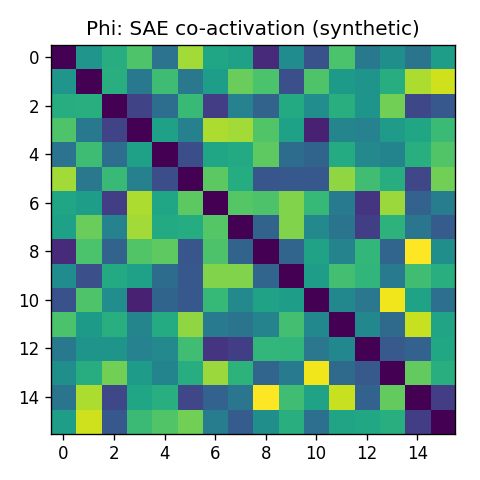
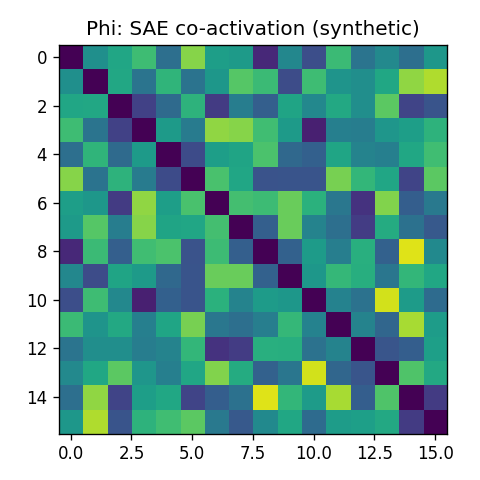
fix: second-pass audit (3 CRITICAL + 6 MAJOR + 8 MINOR)
architect/critic/verifier triple-blind re-audit caught issues the first
post-compact pass missed.

CRITICAL:
- HFTransformerAdapter declared SAE_FEATURES unconditionally; sae_release=None
  silently passed the capability gate and raised a bare RuntimeError deep in
  sae_encode. Now caps are built dynamically in __init__.
- UniversesFunctor._hypervolume double-counted overlapping orthants
  ({(0,1),(1,0)} returned 4.0; true HV is 3.0). Replaced with pymoo.HV.
- paper/figures/phi_heatmap.png embedded matplotlib version in PNG metadata,
  so byte-identical sha256 would false-fail on patch upgrades. metadata=
  {"Software": None} strips it; golden hash bumped accordingly.

MAJOR:
- gate_capability_matrix matched substrings, not code tokens; tightened to
  backtick-anchored regex and explicitly populates the registry.
- gate_changelog substring "0.1.0" passed against "[0.1.0a0]"; now bracket-
  anchored regex.
- UniversesFunctor.compute raised IndexError downstream on empty inputs;
  now rejects with ValueError.
- PhiPhylaFunctor silently returned a zero-edge graph on NaN/Inf features;
  now rejects (symmetric to U's guard).
- transformer-lens was an unused core dep; moved to optional [interp].
- Phi test only checked shape; added diag/symmetric/range invariants and
  NaN/threshold-validation tests.

MINOR (8): registry idempotency docstring corrected, test_seed env
docstring updated to numpy 2.x, ADR-XXX→ADR-XXXX unified, Profile dict
[…]

diff --git a/tests/unit/test_phi.py b/tests/unit/test_phi.py
@@ -49,6 +49,38 @@ def test_phi_metrics_shape() -> None:
     assert result.artifacts["adjacency"].shape == (8, 8)
 
 
+def test_phi_adjacency_invariants() -> None:
+    """Jaccard adjacency must be symmetric, zero-diagonal, [0,1]-bounded.
+
+    Defends against silent regressions in `_coactivation_adjacency` that
+    only-shape tests cannot catch (e.g. dropping `fill_diagonal`, swapping
+    `co.T` for `co`, multiplying by `denom` instead of dividing).
+    """
+
+    rng = np.random.default_rng(1)
+    features = rng.random((64, 8))
+    adj = (
+        PhiPhylaFunctor(layer=0, coactivation_quantile=0.9)
+        .compute(_FakeAdapter(features), inputs="x")
+        .artifacts["adjacency"]
+    )
+    assert (adj.diagonal() == 0).all()
+    assert np.allclose(adj, adj.T)
+    assert ((adj >= 0) & (adj <= 1)).all()
+
+
+def test_phi_rejects_nan_features() -> None:
+    features = np.zeros((4, 3))
+    features[0, 0] = np.nan
+    with pytest.raises(ValueError, match="NaN or Inf"):
+        PhiPhylaFunctor(layer=0).compute(_FakeAdapter(features), inputs="x")
+
+
+def test_phi_rejects_nonfinite_threshold() -> None:
+    with pytest.raises(ValueError, match="finite"):
+        PhiPhylaFunctor(layer=0, coactivation_threshold=float("nan"))
+
+
 def test_phi_differentiable_returns_none_in_phase_1a() -> None:
     functor = PhiPhylaFunctor(layer=0)
     assert functor.compute_differentiable(_FakeAdapter(np.zeros((4, 2))), inputs="x") is None

diff --git a/tests/unit/test_adapter.py b/tests/unit/test_adapter.py
@@ -48,3 +48,31 @@ def test_hf_transformer_conforms_to_protocol() -> None:
     from cartograph.adapters import HFTransformerAdapter
 
     assert isinstance(HFTransformerAdapter(), ModelAdapter)
+
+
+def test_hf_transformer_sae_capability_gated_on_release() -> None:
+    """Without sae_release, the adapter must NOT advertise SAE_FEATURES.
+
+    Otherwise `requires(SAE_FEATURES)` PASSes and the call dives into
+    `sae_encode` which raises a plain RuntimeError instead of the typed
+    MissingCapabilityError the Protocol contract promises.
+    """
+
+    from cartograph.adapters import HFTransformerAdapter
+
+    bare = HFTransformerAdapter()
+    assert Capability.SAE_FEATURES not in bare.capabilities
+    with pytest.raises(MissingCapabilityError):
+        bare.requires(Capability.SAE_FEATURES)
+
+    armed = HFTransformerAdapter(sae_release="dummy")
+    assert Capability.SAE_FEATURES in armed.capabilities
+    armed.requires(Capability.SAE_FEATURES)
+
+
+def test_hf_transformer_capabilities_is_frozenset() -> None:
+    """Protocol type hint is a frozenset; runtime must agree."""
+
+    from cartograph.adapters import HFTransformerAdapter
+
+    assert isinstance(HFTransformerAdapter().capabilities, frozenset)

diff --git a/scripts/verify_release.py b/scripts/verify_release.py
@@ -46,17 +46,22 @@ def gate_smoke_tests(_tag: str) -> None:
 
 
 def gate_capability_matrix(_tag: str) -> None:
-    # Phase 1a: parse docs/reference/adapters.md once it exists; until then
-    # this gate just asserts that every registered adapter is referenced.
+    # Phase 1a check: every registered adapter must be mentioned in
+    # docs/reference/adapters.md as a backtick-delimited identifier (so a
+    # paragraph that happens to contain the substring does not pass). A
+    # full structural diff against `adapter.capabilities` is Phase 1b.
     docs = REPO_ROOT / "docs" / "reference" / "adapters.md"
     if not docs.exists():
         raise GateFailure("missing docs/reference/adapters.md")
     text = docs.read_text(encoding="utf-8")
-    from cartograph.core.registry import REGISTRY  # late import
+    from cartograph.core.registry import REGISTRY, register_builtin_adapters
 
+    register_builtin_adapters()
     for name in REGISTRY:
-        if name not in text:
-            raise GateFailure(f"docs/reference/adapters.md missing adapter '{name}'")
+        if not re.search(rf"`{re.escape(name)}`", text):
+            raise GateFailure(
+                f"docs/reference/adapters.md missing adapter '`{name}`' as a code token"
+            )
 
 
 def gate_paper_figures(_tag: str) -> None:
@@ -87,10 +92,12 @@ def gate_changelog(tag: str) -> None:
     changelog = REPO_ROOT / "CHANGELOG.md"
     if not changelog.exists():
         raise GateFailure("CHANGELOG.md missing")
-    head = changelog.read_text(encoding="utf-8").splitlines()[:30]
+    head = "\n".join(changelog.read_text(encoding="utf-8").splitlines()[:30])
     bare = _strip_v(tag)
-    if not any(bare in line for line in head):
-        raise GateFailure(f"CHANGELOG.md head does not mention tag {bare}")
+    # Bracket-anchored so tag "v0.1.0" does NOT pass against a head whose top
+    # entry is "## [0.1.0a0]" (substring match falsely accepts stale CHANGELOGs).
+    if not re.search(rf"^##\s+\[{re.escape(bare)}\](?:\s|$)", head, re.MULTILINE):
+        raise GateFailure(f"CHANGELOG.md head has no '## [{bare}]' section")
 
 
 def gate_citation(tag: str) -> None:

diff --git a/src/cartograph/adapters/hf_transformer.py b/src/cartograph/adapters/hf_transformer.py
@@ -22,16 +22,20 @@ class HFTransformerAdapter:
     """
 
     name = "hf-transformer"
-    capabilities: frozenset[Capability] = frozenset(
-        {
-            Capability.HIDDEN_STATES,
-            Capability.ATTENTION,
-            Capability.SAE_FEATURES,
-            Capability.LOSS_LANDSCAPE,
-        }
-    )
 
     def __init__(self, model_id: str = "gpt2", sae_release: str | None = None) -> None:
+        # SAE_FEATURES is gated on sae_release so `requires(SAE_FEATURES)` fails
+        # loud rather than letting the call dive into `_sae_activations` and
+        # raise an opaque RuntimeError from `sae_encode` instead of the typed
+        # MissingCapabilityError that the Protocol contract promises.
+        caps: set[Capability] = {
+            Capability.HIDDEN_STATES,
+            Capability.ATTENTION,
+            Capability.LOSS_LANDSCAPE,
+        }
+        if sae_release is not None:
+            caps.add(Capability.SAE_FEATURES)
+        self.capabilities: frozenset[Capability] = frozenset(caps)
         self.model_id = model_id
         self.sae_release = sae_release
         self._model: Any | None = None

diff --git a/tests/unit/test_u.py b/tests/unit/test_u.py
@@ -50,6 +50,18 @@ def test_u_hypervolume_nonneg() -> None:
     assert result.metrics["hypervolume"] >= 0.0
 
 
+def test_u_hypervolume_matches_known_geometry() -> None:
+    """L-shaped 2D frontier {(0,1),(1,0)} with ref (2,2) has HV = 3.0.
+
+    Hand-rolled box-sum gives 4.0 by double-counting the overlap; pymoo
+    returns the true area.
+    """
+
+    objectives = {"o1": lambda x: float(x[0]), "o2": lambda x: float(x[1])}
+    result = UniversesFunctor(objectives).compute(_ScalarAdapter(), [(0.0, 1.0), (1.0, 0.0)])
+    assert result.metrics["hypervolume"] == pytest.approx(3.0)
+
+
 def test_u_rejects_nan_inf() -> None:
     objectives = {"o1": lambda x: float(x), "o2": lambda _: float("nan")}
     with pytest.raises(ValueError, match="NaN"):
@@ -61,6 +73,12 @@ def test_u_single_point_is_pareto() -> None:
     result = UniversesFunctor(objectives).compute(_ScalarAdapter(), [3.14])
     assert result.metrics["n_pareto_optimal"] == 1
     assert result.metrics["spread"] == 0.0
+
+
+def test_u_rejects_empty_inputs() -> None:
+    objectives = {"o1": lambda x: float(x), "o2": lambda x: float(-x)}
+    with pytest.raises(ValueError, match="at least one input"):
+        UniversesFunctor(objectives).compute(_ScalarAdapter(), [])
 
 
 def test_u_all_equal_keeps_all() -> None:

diff --git a/src/cartograph/functors/u_universes.py b/src/cartograph/functors/u_universes.py
@@ -45,9 +45,14 @@ class UniversesFunctor:
 
     def compute(self, adapter: ModelAdapter, inputs: Iterable[Any]) -> FunctorResult:
         adapter.requires(*self.required)
+        # Materialise to allow a length check before iterating; a zero-length
+        # frontier returns a 1D array whose shape[1] crashes downstream viz.
+        materialised = list(inputs)
+        if not materialised:
+            raise ValueError("UniversesFunctor.compute requires at least one input")
         objective_names = sorted(self.objectives)
         rows: list[list[float]] = []
-        for x in inputs:
+        for x in materialised:
             out = adapter.forward(x)
             rows.append([float(self.objectives[k](out)) for k in objective_names])
         values = np.asarray(rows, dtype=np.float64)
@@ -94,12 +99,16 @@ class UniversesFunctor:
 
     @staticmethod
     def _hypervolume(frontier: FloatArray) -> float:
+        # Minimisation HV with reference point `max + 1` per objective. The
+        # earlier hand-rolled box-sum double-counted overlapping orthants
+        # ({(0,1),(1,0)} → 4 instead of 3); pymoo's WFG implementation is
+        # the canonical, peer-tested computation.
         if frontier.size == 0:
             return 0.0
+        from pymoo.indicators.hv import HV
+
         ref = frontier.max(axis=0) + 1.0
-        # Crude box-dominated approximation; pymoo handles SOTA when available.
-        diffs = np.clip(ref - frontier, 0.0, None)
-        return float(diffs.prod(axis=1).sum())
+        return float(HV(ref_point=ref).do(frontier))
 
     @staticmethod
     def _spread(frontier: FloatArray) -> float:

diff --git a/tests/reproducibility/test_seed.py b/tests/reproducibility/test_seed.py
@@ -21,9 +21,10 @@ import textwrap
 
 import pytest
 
-# Golden hash captured on Linux/numpy 1.26 with seed=42, 128x16 SAE features,
-# coactivation_quantile=0.95. Update only with a deliberate commit that
-# explains the cause (e.g. numpy major bump, intentional algorithm change).
+# Golden hash captured on Linux/CPython 3.12/numpy 2.x with seed=42,
+# 128x16 SAE features, coactivation_quantile=0.95. Update only with a
+# deliberate commit that explains the cause (numpy major bump, BLAS swap,
+# intentional algorithm change).
[1 lines of base64/hex data omitted]
 
 _REGEN_SCRIPT = textwrap.dedent(
@@ -72,8 +73,15 @@ def test_phi_adjacency_byte_identical_under_seed() -> None:
         [sys.executable, "-c", _REGEN_SCRIPT],
         capture_output=True,
         text=True,
-        check=True,
+        check=False,
     )
+    if proc.returncode != 0:
+        # Surface child traceback to the parent run; otherwise debug is opaque.
+        raise AssertionError(
+            f"regen subprocess failed (rc={proc.returncode}):\n"
+            f"--- stdout ---\n{proc.stdout}\n"
+            f"--- stderr ---\n{proc.stderr}"
+        )
     actual = proc.stdout.strip()
     assert actual == GOLDEN_HASH, (
         f"Phi adjacency hash drift: actual={actual} expected={GOLDEN_HASH}. "

diff --git a/src/cartograph/core/report.py b/src/cartograph/core/report.py
@@ -24,7 +24,13 @@ class FunctorResult:
 
 @dataclass(frozen=True)
 class CartographicProfile:
-    """Aggregated four-functor diagnosis of a foundation model."""
+    """Aggregated four-functor diagnosis of a foundation model.
+
+    `frozen=True` prevents rebinding the dataclass attributes, but the
+    `results` dict itself remains mutable — `profile.results["X"] = ...`
+    succeeds. Treat it as read-only; deep immutability would need a
+    `MappingProxyType` wrapper which is Phase 1b polish.
+    """
 
     adapter: str
     results: dict[str, FunctorResult]
@@ -37,4 +43,6 @@ class CartographicProfile:
         return self.results[name]
 
     def is_complete(self) -> bool:
+        """Phase 1a always False (F and T are stubs); becomes meaningful in 1b."""
+
         return {"F", "Phi", "T", "U"}.issubset(self.results)

diff --git a/src/cartograph/core/registry.py b/src/cartograph/core/registry.py
@@ -39,10 +39,11 @@ def load_adapter(name: str, **kwargs: object) -> ModelAdapter:
 def register_builtin_adapters() -> None:
     """Import built-in adapter modules so their decorators fire.
 
-    Idempotent: re-import of an already-loaded module is a no-op in Python,
-    and `register_adapter` raises only on *new* duplicate registration.
-    Call this from any entry point that needs the registry populated
-    (CLI, tests) instead of relying on side-effect imports.
+    Safe to call repeatedly within a process: the second call is a no-op
+    because `import cartograph.adapters` hits the `sys.modules` cache and
+    the decorators do not re-run. **Not** re-entrant after `REGISTRY.clear()`
+    in tests — clear and then `importlib.reload(cartograph.adapters)` if a
+    test really needs a fresh registration cycle.
     """
 
     import cartograph.adapters  # noqa: F401

diff --git a/src/cartograph/functors/phi_phyla.py b/src/cartograph/functors/phi_phyla.py
@@ -61,6 +61,8 @@ class PhiPhylaFunctor:
     ) -> None:
         if not 0.0 < coactivation_quantile < 1.0:
             raise ValueError("coactivation_quantile must lie in (0, 1)")
+        if coactivation_threshold is not None and not np.isfinite(coactivation_threshold):
+            raise ValueError("coactivation_threshold must be a finite number")
         self.layer = layer
         self.coactivation_quantile = coactivation_quantile
         self.coactivation_threshold = coactivation_threshold
@@ -105,6 +107,11 @@ class PhiPhylaFunctor:
     def _coactivation_adjacency(self, features: FloatArray) -> FloatArray:
         if features.ndim != 2:
             raise ValueError(f"features must be 2D (n_samples, n_features); got {features.shape}")
+        # Symmetric to UniversesFunctor._pareto_mask: NaN/Inf silently produce
+        # a plausible-but-wrong zero-edge graph that downstream readers cannot
+        # tell from a genuine "feature has no co-activations" result.
+        if not np.isfinite(features).all():
+            raise ValueError("features contain NaN or Inf; co-activation is undefined")
         if self.coactivation_threshold is None:
             threshold: FloatArray | float = np.quantile(
                 features, self.coactivation_quantile, axis=0

diff --git a/scripts/make_paper_figures.py b/scripts/make_paper_figures.py
@@ -25,11 +25,13 @@ def render_phi_heatmap(out: Path, seed: int = 42) -> Path:
     np.fill_diagonal(adj, 0.0)
 
     fig, ax = plt.subplots(figsize=(4, 4))
-    ax.imshow(adj, aspect="auto")
+    ax.imshow(adj, aspect="equal", vmin=0.0, vmax=1.0)
     ax.set_title("Phi: SAE co-activation (synthetic)")
     out.parent.mkdir(parents=True, exist_ok=True)
     fig.tight_layout()
-    fig.savefig(out, dpi=120)
+    # `Software: None` strips the matplotlib version stamp from PNG metadata,
+    # so byte-identical sha256 survives matplotlib patch upgrades.
+    fig.savefig(out, dpi=120, metadata={"Software": None})
     plt.close(fig)
     return out
 

diff --git a/src/cartograph/viz/matplotlib_basic.py b/src/cartograph/viz/matplotlib_basic.py
@@ -45,7 +45,9 @@ def _draw_phi(ax: Any, result: Any) -> None:
     if adj is None:
         _placeholder(ax, "Phi — no adjacency artifact")
         return
-    ax.imshow(adj, aspect="auto")
+    # Jaccard is bounded [0,1] and the adjacency is symmetric, so equal aspect
+    # + pinned vmin/vmax keeps cross-model heatmaps visually comparable.
+    ax.imshow(adj, aspect="equal", vmin=0.0, vmax=1.0)
     ax.set_title("Phi: SAE co-activation (Jaccard)")
 
 